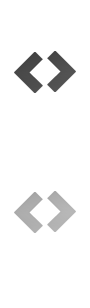
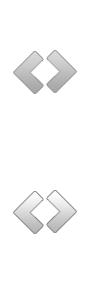
Adjusted marked read changed some designs in readerview page then i dont remember!!

diff --git a/css/styles.css b/css/styles.css
@@ -112,22 +112,23 @@ html{
 	opacity:0;
 }
 #youtubeSuggestions{
-	background-color:black;
+	background-color:#444;
 	color:white;
 	float:right;
-	left:530px;
+	left:529px;
 	top:70px;
 	position:absolute;
 	list-style:none;
 	z-index: 1000;
 	text-shadow:none;
-	width:210px;
+	width:208px;
 	display:none;
 }
 #youtubeSuggestions li{
 	height:20px;
 	cursor:pointer;
-	border:1px solid;
+	border:1px solid #999;
+	border-top:none;
 	}
 #youtubeSuggestions li:hover{
 background-color:#06F;
@@ -454,7 +455,7 @@ background-color:#06F;
 }
 #backbutton{
 	cursor:pointer;
-	background:url(../img/feedbutton.png)no-repeat;
+	background:url(../img/feedbutton.png) 0 -140px no-repeat;
 	width: 45px;
 	font-size:15px;
 	text-align:center;
@@ -463,7 +464,7 @@ background-color:#06F;
 	padding: 50px 0 80px 0;
 }
 #backbutton:hover{
-	background:url(../img/feedbutton.png) 0 -140px no-repeat;
+	background:url(../img/feedbutton.png) no-repeat;
 	
 }
 .Video-IFrame-YouTube {
@@ -614,15 +615,15 @@ background-image: -webkit-gradient(linear, left top, left bottom, color-stop(0, 
 }
 
 .color4{
-background-image: -webkit-gradient(linear, left top, left bottom, color-stop(0, #BE7F2C), color-stop(1, #CCC739));
+background-image: -webkit-gradient(linear, left top, left bottom, color-stop(0, #38879E), color-stop(1, #4FBAC7));
 }
 .color4:hover
 {
-    background-image: -webkit-gradient(linear, left bottom, left top, color-stop(0, #BE7F2C), color-stop(1, #CCC739));
+    background-image: -webkit-gradient(linear, left bottom, left top, color-stop(0, #38879E), color-stop(1, #4FBAC7));
     cursor:pointer;
 }
 .color4:active
-{background-image: -webkit-gradient(radial, center top, 0, center top, 100, color-stop(0, #CCC739), color-stop(1, #BE7F2C));
+{background-image: -webkit-gradient(radial, center top, 0, center top, 100, color-stop(0, #4FBAC7), color-stop(1, #38879E));
 }
 .color3{
 background-image: -webkit-gradient(linear, left top, left bottom, color-stop(0, #924650), color-stop(1, #C46674));
@@ -778,14 +779,22 @@ right:0px;
 	font-family:'Segoe UI',Arial, sans-serif;
     color:#888;
     text-shadow: none;
-    margin-left: 10px;
-    margin-top: 15px;
-    width: 100px;
+	margin:-8px 20px 0 15px ;
+    width: 125px;
     float:left;
     font-size:12px;
     padding:4px 0 6px 22px;
 	display:none;
    /* background:url('../img/arrow2.png') 0 0 no-repeat; */
+}
+#viewOptionsBox{
+	border-radius:8px;
+	outline:none;
+}
+.readerFooterElem img
+{
+	vertical-align:middle;
+	margin-left:5px;
 }
 /*--------------------------------------------------------
                 Feed View Area CSS/////////////////////////////////////////////////
@@ -835,7 +844,7 @@ margin-bottom:15px;
 -webkit-animation-duration: 1000ms, 300ms;
 -webkit-animation-delay: 0ms, 1000ms;
 }
-.textSlide             { padding: 10px 30px;overflow:scroll }
+.textSlide             { padding: 15px 0px 0 10px; overflow-y: scroll;}
 .textSlide h3          { font: 20px Georgia, Serif; }
 .textSlide h4          { text-transform: uppercase; font: 15px Georgia, Serif; margin: 10px 0; }
 .textSlide ul          { list-style: disc; margin: 0; padding-left: 20px; }

diff --git a/css/anythingslider.css b/css/anythingslider.css
@@ -11,7 +11,7 @@
 /* change the ID to match your slider */
 #slider {
 	width: 100%;
-	min-height:490px;
+	min-height:511px;
 	/*height:100%;*/
 	
 	list-style: none;
@@ -82,7 +82,7 @@ div.anythingSlider {
 	margin: 0 auto;
 	overflow: visible !important; /* needed for Opera and Safari */
 	position: relative;
-	padding: 23px 40px 28px 40px;
+	padding: 10px 40px 28px 29px;
 }
 /* anythingSlider viewport window */
 div.anythingSlider .anythingWindow {
@@ -90,8 +90,8 @@ div.anythingSlider .anythingWindow {
 //	overflow-x:hidden;
 	border-radius:12px;
 	position: relative;
-	width: 100%;
-	height:498px;
+	width: 771px;
+	height: 511px;
 }
 /* anythingSlider base (original element) */
 .anythingBase {
@@ -113,6 +113,8 @@ div.anythingSlider .anythingWindow {
 	overflow-x:hidden;
 	float: left;
 	padding: 0;
+	width:771px;
+	height:511px;
 	margin: 0;
 }
 .anythingBase .panel.vertical {
@@ -128,7 +130,7 @@ div.anythingSlider .arrow {
 div.anythingSlider .arrow a {
 	display: block;
 	height: 140px;
-	margin: -70px -10px 0 -10px; /* half height of image */
+	margin: -70px -0px 0 -12px; /* half height of image */
 	width: 45px;
 	text-align: center;
 	outline: 0;

diff --git a/popup.html b/popup.html
@@ -18,7 +18,7 @@
             <!-- Loading PokkiBrowser to do testing in a normal chrome web browser -->
 			<script type="text/javascript" src="js/lib/PokkiBrowser.js"></script>
             <!-- Loading SmoothScroll to make the scrollbars scroll more smoothly (it's really smooth!) -->
-       <!--     <script type="text/javascript" src="js/lib/SmoothScroll.js"></script>   -->
+       <!-- -->    <script type="text/javascript" src="js/lib/SmoothScroll.js"></script>   
             <!-- Loading Google Analytics for Pokki wrapper -->
             <script type="text/javascript" src="js/lib/GAPokki.js"></script>
             <!-- Loading utility class for localStorage interaction -->
